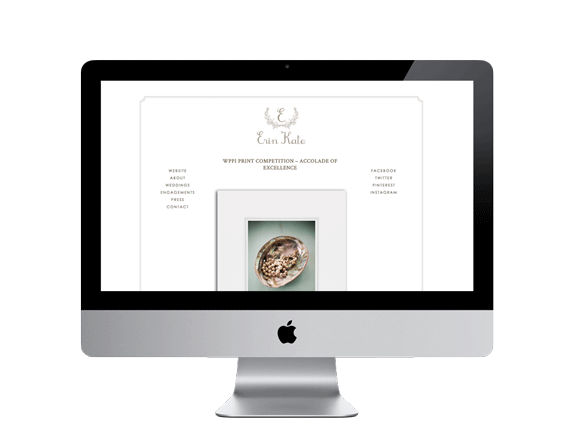
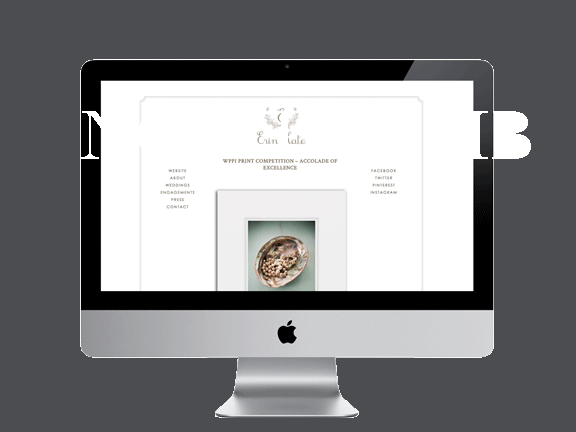
working on modal for contact form

diff --git a/js/jquery.modal.min.js b/js/jquery.modal.min.js
@@ -1,0 +1,1 @@
+(function(e){e.fn.modal=function(t){function o(){e("."+t.videoClass).attr("src",t.video);r.hide();i.css({top:e(window).height()/2-i.outerHeight()/2+e(window).scrollTop(),left:e(window).width()/2-i.outerWidth()/2+e(window).scrollLeft()});if(s===false){n.css({opacity:t.opacity,backgroundColor:"#"+t.background});n[t.animationEffect](t.animationSpeed);i.delay(t.animationSpeed)[t.animationEffect](t.animationSpeed)}else{i.show()}s=true}function u(){r.stop(true).animate({top:e(window).height()/2-r.outerHeight()/2+e(window).scrollTop(),left:e(window).width()/2-r.outerWidth()/2+e(window).scrollLeft()},t.moveModalSpeed)}function a(){e("."+t.videoClass).attr("src","");s=false;r.fadeOut(100,function(){if(t.animationEffect==="slideDown"){n.slideUp()}else if(t.animationEffect==="fadeIn"){n.fadeOut()}});return false}t=e.extend({trigger:".modalLink",olay:"div.overlay",modals:"div.modal",animationEffect:"fadeIn",animationSpeed:400,moveModalSpeed:"slow",background:"000",opacity:.8,openOnLoad:false,docClose:true,closeByEscape:true,moveOnScroll:true,resizeWindow:true,video:"",videoClass:"video",close:".closeBtn"},t);var n=e(t.olay);var r=e(t.modals);var i;var s=false;if(t.animationEffect==="fadein"){t.animationEffect="fadeIn"}if(t.animationEffect==="slidedown"){t.animationEffect="slideDown"}n.css({opacity:0});if(t.openOnLoad){o()}else{n.hide();r.hide()}e(t.trigger).bind("click",function(t){t.preventDefault();if(e(".modalLink").length>1){getModal=e(this).attr("href");i=e(getModal)}else{i=e(".modal")}o()});if(t.docClose){n.bind("click",a)}e(t.close).bind("click",a);if(t.closeByEscape){e(window).bind("keyup",function(e){if(e.which===27){a()}})}if(t.resizeWindow){e(window).bind("resize",u)}else{return false}if(t.moveOnScroll){e(window).bind("scroll",u)}else{return false}}})(jQuery)

diff --git a/_includes/foot.html b/_includes/foot.html
@@ -7,22 +7,18 @@
         elihubogan@gmail.com 
         </p>
     </div>
-    <div class="contact">
-    <form action="http://getsimpleform.com/messages?form_api_token=3a3427bde9d73dcd1ce31afa6f350af8" method="post">
-    <!-- the redirect_to is optional, the form will redirect to the referrer on submission -->
-    <input type='hidden' name='redirect_to' value='http://elihubogan.com' />
-    <!-- all your input fields here.... -->
-    <input type='text' name='your-name' placeholder="Name?">
-    <input type='email' name='your-email' placeholder="Email address?">
-    <textarea name="message" placeholder="What can we help you with?"></textarea>
-    <input type='submit' value='Test form' />
-    </form>
-        <p>
-        <a href="https://github.com/elihubogan">github.com/elihubogan</a><br />
-        <a href="https://twitter.com/elihubogan">twitter.com/elihubogan</a><br />
-        </p>
-    </div>
 </div>
 <hr />
+<a class="modalLink" href="#">Click Me
+
+<div class="overlay"></div>
+
+<div class="modal">
+
+<a href="#" class="closeBtn">Close Me</a>
+
+<!-- content here -->
+
+</div>
 </body>
 </html>

diff --git a/_includes/contact.html b/_includes/contact.html
@@ -1,0 +1,16 @@
+
+    <div class="contact">
+    <form action="http://getsimpleform.com/messages?form_api_token=3a3427bde9d73dcd1ce31afa6f350af8" method="post">
+    <!-- the redirect_to is optional, the form will redirect to the referrer on submission -->
+    <input type='hidden' name='redirect_to' value='http://elihubogan.com' />
+    <!-- all your input fields here.... -->
+    <input type='text' name='your-name' placeholder="Name?">
+    <input type='email' name='your-email' placeholder="Email address?">
+    <textarea name="message" placeholder="What can we help you with?"></textarea>
+    <input type='submit' value='Test form' />
+    </form>
+        <p>
+        <a href="https://github.com/elihubogan">github.com/elihubogan</a><br />
+        <a href="https://twitter.com/elihubogan">twitter.com/elihubogan</a><br />
+        </p>
+    </div>

diff --git a/_includes/index-loop.html b/_includes/index-loop.html
@@ -2,10 +2,15 @@
 <div id="content">
     {% for post in site.posts %}
     <li><span>{{ post.date | date_to_string }}</span> &raquo; <a href="{{ post.url }}">{{ post.title }}</a></li>
-    {% for image in post.excerpt_image %}
-    <figure>
-        <img src="{{ site.image_dir }}/{{ post.image[forloop.index0] }}" alt="{{ page.image_alt[forloop.index0] }}">
-        </figure>
-    {% endfor %}
+        {% if post.excerpt_image %}
+            {% for image in post.excerpt_image %}
+            <figure>
+            <a href="{{ post.url }}"><img src="{{ site.image_dir }}/{{ post.image[forloop.index0] }}" alt="{{ page.image_alt[forloop.index0] }}"></a>
+            </figure>
+        {% else %}
+            <img src="/assets/nothumb.png" style="height: 280px" align="center" />
+        {% endfor %}
+
+        {% endif %}
     {% endfor %}
 </div>

diff --git a/css/main.css b/css/main.css
@@ -158,3 +158,41 @@ a:visited { color: #a0a; }
 .post pre.terminal code {
   background-color: #333;
 }
+
+.overlay{
+
+width: 100%;
+
+height: 100%;
+
+position: fixed;
+
+top: 0;
+
+left: 0;
+
+z-index: 1000;
+
+display: none;
+
+}
+
+.modal{
+
+display: none;
+
+background:#eee;
+
+padding:0 20px 20px;
+
+overflow:auto;
+
+z-index:1001;
+
+position:absolute;
+
+width: 500px;
+
+min-height: 300px;
+
+}

diff --git a/_includes/head.html b/_includes/head.html
@@ -16,6 +16,7 @@
         <script src="//ajax.googleapis.com/ajax/libs/jquery/1.10.2/jquery.min.js"></script>
         <script src="/js/infinite-jekyll.js"></script>
         <script src="{{ site.url }}/js/custom.js" type="text/javascript" ></script>
+        <script src="{{ site.url }}/js/jquery.modal.min.js" type="text/javascript" ></script>
 
     </head>
     <body>
